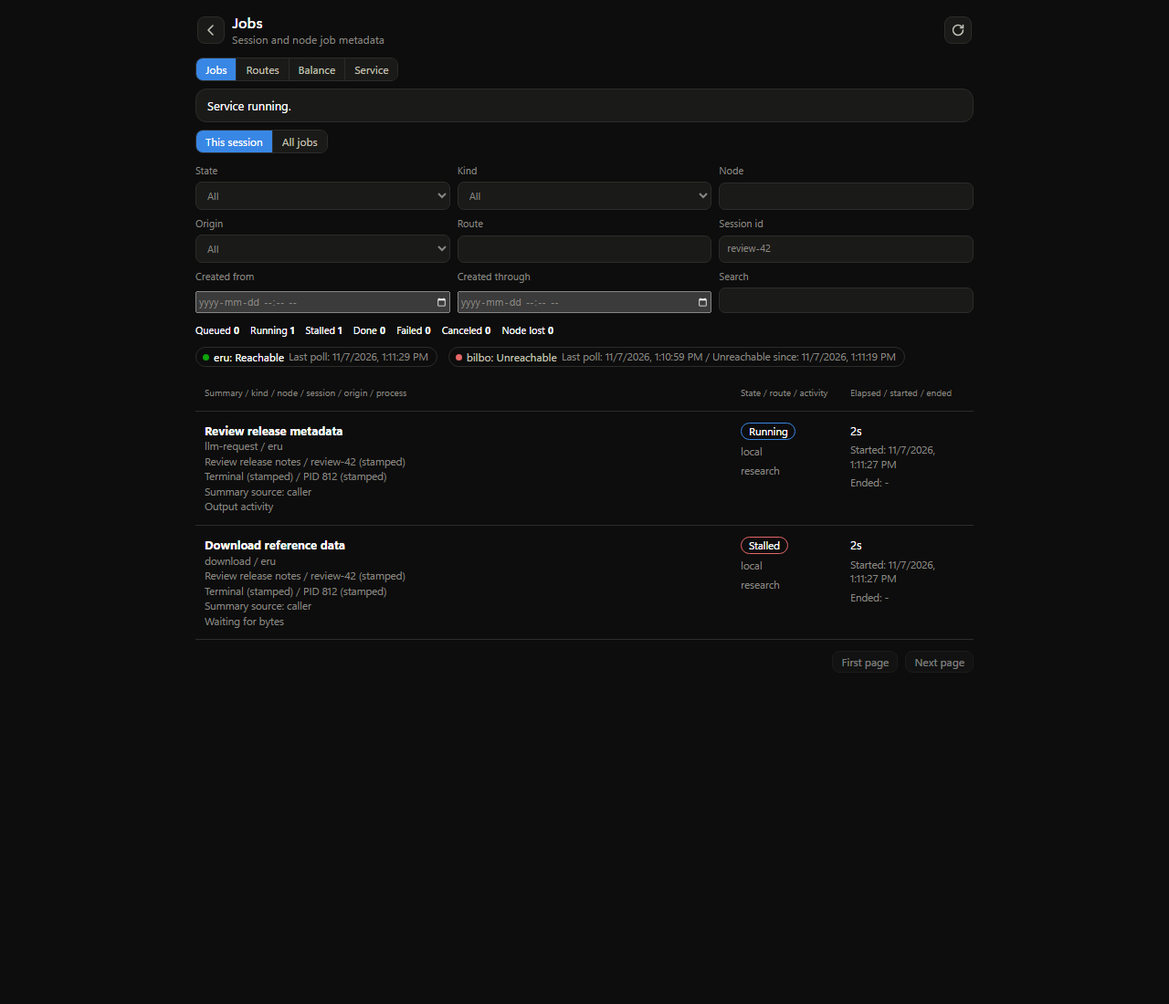
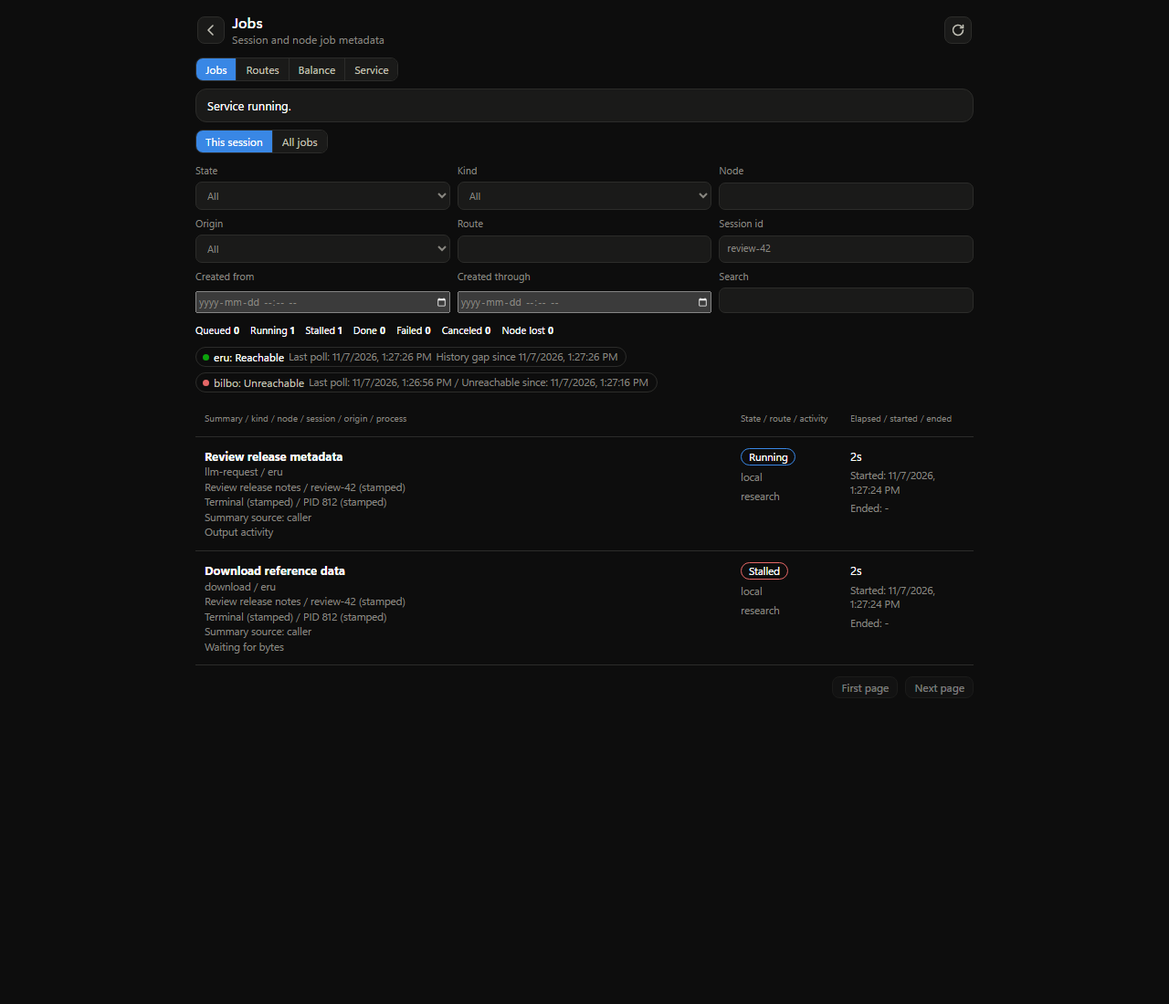
Recover the job poller from an expired Cogitator cursor and show the history gap
A 410 cursor_expired reply now advances the node cursor to the retained floor, records a gap on the node, and keeps the node reachable. The gap shows in nodes output and on both Jobs pages.

diff --git a/packages/augurd/test/job-ledger.test.ts b/packages/augurd/test/job-ledger.test.ts
@@ -33,6 +33,20 @@ function insert(store: Store, id = 'local') {
 }
 
 describe('the durable ledger', () => {
+  it('migrates and persists node gaps and stale job overlays across a restart', () => {
+    const { dir, store, ledger } = fixture();
+    ledger.ingest('eru', page([job()]));
+    store.db.exec('alter table ledger_nodes drop column gap');
+    const migrated = new JobLedger(store.db, { get: id => store.get(id), all: () => store.list({ limit: 1000 }) });
+    expect(migrated.nodes()[0]!.gap).toBeNull();
+    const gap = { at: 1000, from: '1', to: '10', retentionDays: 7 };
+    migrated.recoverGap('eru', gap); migrated.close(); store.close();
+    const reopened = new Store(dir); cleanup.push(() => reopened.close());
+    expect(reopened.ledger.nodes()[0]).toMatchObject({ cursor: '10', gap, unreachableSince: null });
+    reopened.ledger.ingest('eru', page([], 10));
+    expect(reopened.ledger.get('eru:1')?.job.state).toBe('node-lost');
+    expect(reopened.ledger.nodes()[0]!.gap).toEqual(gap);
+  });
   it('migrates node poll times and retains the successful time during an outage', () => {
     const { store, ledger } = fixture();
     ledger.ingest('eru', page([job()]));
@@ -177,6 +191,91 @@ describe('the durable ledger', () => {
 });
 
 describe('node polling', () => {
+  it('retries an expired cursor at the page budget boundary in the same poll', async () => {
+    const { ledger } = fixture();
+    let expired = false;
+    const request = vi.fn(async (url: string | URL | Request) => {
+      const since = Number(new URL(String(url)).searchParams.get('since'));
+      if (since === 9) { expired = true; return new Response(JSON.stringify({ error: { code: 'cursor_expired', oldest: '20' } }), { status: 410 }); }
+      return new Response(JSON.stringify(page([job(String(since + 1))], since, true)));
+    });
+    const poller = new JobPoller(ledger, () => [{ node: 'eru', url: 'http://localhost' }], request as typeof fetch);
+    await poller.poll(); poller.close();
+    expect(expired).toBe(true); expect(request).toHaveBeenCalledTimes(11);
+    expect(ledger.nodes()[0]).toMatchObject({ cursor: '21', unreachableSince: null, gap: { from: '9', to: '20' } });
+    expect(ledger.get('eru:21')?.job.state).toBe('running');
+  });
+  it('bounds repeated advancing expiry responses without marking the node unreachable', async () => {
+    const { ledger } = fixture();
+    const request = vi.fn(async (url: string | URL | Request) => new Response(JSON.stringify({ error: { code: 'cursor_expired', oldest: String(Number(new URL(String(url)).searchParams.get('since')) + 1) } }), { status: 410 }));
+    const poller = new JobPoller(ledger, () => [{ node: 'eru', url: 'http://localhost' }], request as typeof fetch);
+    await poller.poll(); poller.close();
+    expect(request).toHaveBeenCalledTimes(10);
+    expect(ledger.nodes()[0]).toMatchObject({ cursor: '10', unreachableSince: null, gap: { from: '9', to: '10' } });
+  });
+  it('recovers expired history immediately, keeps the gap, and settles only jobs with newer events', async () => {
+    const { store, ledger } = fixture();
+    ledger.ingest('eru', page([job('1', { state: 'stalled' }), job('2'), job('3', { state: 'done', endedAt: 12, durationMs: 10 })]));
+    ledger.unreachable('eru');
+    const request = vi.fn(async (url: string | URL | Request) => {
+      const since = new URL(String(url)).searchParams.get('since');
+      if (since === '3') return new Response(JSON.stringify({ error: { code: 'cursor_expired', oldest: '10', retentionDays: 7, prompt: 'PRIVATE_GAP_PROMPT', answer: 'PRIVATE_GAP_ANSWER' } }), { status: 410 });
+      expect(ledger.nodes()[0]).toMatchObject({ cursor: '10', unreachableSince: null });
+      return new Response(JSON.stringify(page([job('2', { state: 'done', endedAt: 12, durationMs: 10 }), job('4')], 10)));
+    });
+    const poller = new JobPoller(ledger, () => [{ node: 'eru', url: 'http://localhost' }], request as typeof fetch);
+    const before = Date.now(); await poller.poll(); poller.close();
+    expect(request).toHaveBeenCalledTimes(2);
+    const node = ledger.nodes()[0]!;
+    expect(node).toMatchObject({ cursor: '12', unreachableSince: null, gap: { from: '3', to: '10', retentionDays: 7 } });
+    expect(node.gap!.at).toBeGreaterThanOrEqual(before); expect(node.gap!.at).toBeLessThanOrEqual(Date.now());
+    expect(ledger.get('eru:1')?.job.state).toBe('node-lost');
+    expect(ledger.get('eru:2')?.job.state).toBe('done'); expect(ledger.get('eru:3')?.job.state).toBe('done');
+    expect(ledger.get('eru:4')?.job.state).toBe('running');
+    ledger.ingest('eru', page([], 12));
+    expect(ledger.nodes()[0]!.gap).toEqual(node.gap);
+    expect(ledger.changes().changes.filter(c => c.job.id === 'eru:1').at(-1)?.job.state).toBe('node-lost');
+    expect(ledger.checkAlerts()).toEqual([]);
+    expect(JSON.stringify(store.db.prepare('select gap from ledger_nodes').all())).not.toContain('PRIVATE_GAP_');
+    expect(JSON.stringify(ledger.changes())).not.toContain('PRIVATE_GAP_');
+    ledger.ingest('eru', page([job('1')], 12));
+    expect(ledger.get('eru:1')?.job.state).toBe('running');
+  });
+  it('replaces consecutive gaps and compares full unsigned 64-bit cursors', async () => {
+    const { ledger } = fixture();
+    ledger.recoverGap('eru', { at: 1, from: '0', to: '9007199254740992' });
+    const replies = [
+      new Response(JSON.stringify({ error: { code: 'cursor_expired', oldest: '9007199254740993', retentionDays: 7 } }), { status: 410 }),
+      new Response(JSON.stringify({ error: { code: 'cursor_expired', oldest: '18446744073709551615', retentionDays: 'invalid' } }), { status: 410 }),
+      new Response(JSON.stringify({ ...page([]), next: '18446744073709551615' })),
+    ];
+    const request = vi.fn(async () => replies.shift()!);
+    const poller = new JobPoller(ledger, () => [{ node: 'eru', url: 'http://localhost' }], request as typeof fetch);
+    await poller.poll(); poller.close();
+    expect(request).toHaveBeenCalledTimes(3);
+    expect(ledger.nodes()[0]).toMatchObject({ cursor: '18446744073709551615', unreachableSince: null, gap: { from: '9007199254740993', to: '18446744073709551615' } });
+    expect(ledger.nodes()[0]!.gap!.retentionDays).toBeUndefined();
+  });
+  it.each([
+    { error: { code: 'cursor_expired' } },
+    ...['bad', '01', '-1', '18446744073709551616', '2', '1', 3, null].map(oldest => ({ error: { code: 'cursor_expired', oldest } })),
+    { error: { code: 'future_cursor', oldest: '3' } }, {}, null, 'non-JSON',
+  ])('keeps the cursor and marks the node unreachable for an invalid expiry: %j', async body => {
+    const { ledger } = fixture(); ledger.ingest('eru', page([job(), job('2')]));
+    const request = vi.fn(async () => new Response(typeof body === 'string' ? body : JSON.stringify(body), { status: 410 }));
+    const poller = new JobPoller(ledger, () => [{ node: 'eru', url: 'http://localhost' }], request as typeof fetch);
+    await poller.poll(); poller.close();
+    expect(request).toHaveBeenCalledTimes(1);
+    expect(ledger.nodes()[0]).toMatchObject({ cursor: '2', gap: null });
+    expect(ledger.nodes()[0]!.unreachableSince).not.toBeNull();
+  });
+  it.each(['future_cursor', 'invalid_cursor'])('keeps HTTP 400 handling for %s', async code => {
+    const { ledger } = fixture();
+    const poller = new JobPoller(ledger, () => [{ node: 'eru', url: 'http://localhost' }], (async () => new Response(JSON.stringify({ error: { code, oldest: '10' } }), { status: 400 })) as typeof fetch);
+    await poller.poll(); poller.close();
+    expect(ledger.nodes()[0]).toMatchObject({ cursor: '0', gap: null });
+    expect(ledger.nodes()[0]!.unreachableSince).not.toBeNull();
+  });
   it('times out and aborts a node request without advancing its cursor', async () => {
     vi.useFakeTimers();
     const { ledger } = fixture();

diff --git a/packages/augurd/src/job-ledger.ts b/packages/augurd/src/job-ledger.ts
@@ -1,7 +1,7 @@
 import { randomUUID, createHash } from 'node:crypto';
 import type { DatabaseSync } from 'node:sqlite';
-import { JOB_STATES, LEDGER_STATES, ORIGIN_KINDS, ledgerId, ledgerTerminal, summaryLine, validCursor, validLedgerJob, validNodeJobPage } from '@augur/dispatch-protocol';
-import type { JobRecord, LedgerAlert, LedgerAlertSettings, LedgerChain, LedgerChange, LedgerJob, LedgerMetadata, LedgerNode, LedgerPage, LedgerQuery, LedgerState, LedgerWatchPage, NodeJobPage } from '@augur/dispatch-protocol';
+import { JOB_STATES, LEDGER_STATES, ORIGIN_KINDS, ledgerId, ledgerTerminal, summaryLine, validCursor, validLedgerGap, validLedgerJob, validNodeJobPage } from '@augur/dispatch-protocol';
+import type { JobRecord, LedgerAlert, LedgerAlertSettings, LedgerChain, LedgerChange, LedgerGap, LedgerJob, LedgerMetadata, LedgerNode, LedgerPage, LedgerQuery, LedgerState, LedgerWatchPage, NodeJobPage } from '@augur/dispatch-protocol';
 
 export interface AlertSink { emit(event: LedgerAlert): void | Promise<void> }
 export class NoopAlertSink implements AlertSink { emit(_event: LedgerAlert): void {} }
@@ -37,6 +37,7 @@ export class JobLedger {
       create trigger if not exists ledger_job_insert after insert on jobs begin insert or ignore into ledger_dirty(id) values(new.id); end;
       create trigger if not exists ledger_job_update after update on jobs begin insert or ignore into ledger_dirty(id) values(new.id); end;`);
     if (!(db.prepare('pragma table_info(ledger_nodes)').all() as Array<{ name: string }>).some(column => column.name === 'last_poll_at')) db.exec('alter table ledger_nodes add column last_poll_at integer');
+    if (!(db.prepare('pragma table_info(ledger_nodes)').all() as Array<{ name: string }>).some(column => column.name === 'gap')) db.exec('alter table ledger_nodes add column gap text');
     db.prepare('insert or ignore into ledger_identity(id,node) values(1,?)').run(`augur-${randomUUID()}`);
     this.node = (db.prepare('select node from ledger_identity where id=1').get() as { node: string }).node;
     db.exec('insert or ignore into ledger_dirty(id) select id from jobs');
@@ -113,7 +114,9 @@ export class JobLedger {
   private remoteJob(job: LedgerJob): LedgerJob {
     const node = this.nodes().find(n => n.node === job.node);
     const line = this.remoteLines.get(job.id), row = line ? { ...job, activityLine: line } : job;
-    return node?.unreachableSince !== null && node?.unreachableSince !== undefined && !ledgerTerminal(job.state) ? { ...row, state: 'node-lost' } : row;
+    const version = node?.gap ? (this.db.prepare('select version from ledger_remote where id=?').get(job.id) as { version: string }).version : null;
+    const stale = node?.gap && version !== null && BigInt(version) <= BigInt(node.gap.to);
+    return ((node?.unreachableSince !== null && node?.unreachableSince !== undefined) || stale) && !ledgerTerminal(job.state) ? { ...row, state: 'node-lost' } : row;
   }
 
   private all(): LedgerJob[] {
@@ -195,9 +198,21 @@ export class JobLedger {
   }
 
   nodes(): LedgerNode[] {
-    return (this.db.prepare('select * from ledger_nodes order by node').all() as Array<{ node: string; cursor: string; unreachable_since: number | null; last_seen_at: number | null; last_poll_at: number | null }>).map(n => ({ node: n.node, cursor: n.cursor, unreachableSince: n.unreachable_since, lastSeenAt: n.last_seen_at, lastPollAt: n.last_poll_at }));
+    return (this.db.prepare('select * from ledger_nodes order by node').all() as Array<{ node: string; cursor: string; unreachable_since: number | null; last_seen_at: number | null; last_poll_at: number | null; gap: string | null }>).map(n => ({ node: n.node, cursor: n.cursor, unreachableSince: n.unreachable_since, lastSeenAt: n.last_seen_at, lastPollAt: n.last_poll_at, gap: n.gap === null ? null : JSON.parse(n.gap) as LedgerGap }));
   }
   cursor(node: string): string { return this.nodes().find(n => n.node === node)?.cursor ?? '0'; }
+
+  recoverGap(node: string, gap: LedgerGap): void {
+    if (!validLedgerGap(gap) || gap.from !== this.cursor(node) || node === this.node) throw new Error('The ledger gap is invalid.');
+    this.transaction(() => {
+      this.db.prepare('insert into ledger_nodes(node,cursor,last_seen_at,last_poll_at,gap) values(?,?,?,?,?) on conflict(node) do update set cursor=excluded.cursor,unreachable_since=null,last_seen_at=excluded.last_seen_at,last_poll_at=excluded.last_poll_at,gap=excluded.gap').run(node, gap.to, gap.at, gap.at, JSON.stringify(gap));
+      for (const { body } of this.db.prepare('select body from ledger_remote where node=?').all(node) as Array<{ body: string }>) {
+        const job = JSON.parse(body) as LedgerJob;
+        this.remoteLines.delete(job.id);
+        this.append(this.remoteJob(job));
+      }
+    });
+  }
 
   unreachable(node: string): void {
     this.transaction(() => {
@@ -224,7 +239,7 @@ export class JobLedger {
         this.db.prepare('insert into ledger_remote(id,node,version,body) values(?,?,?,?) on conflict(id) do update set version=excluded.version,body=excluded.body').run(event.job.id, node, event.seq, payload(event.job));
         this.append(event.job);
       }
-      for (const { body } of this.db.prepare('select body from ledger_remote where node=?').all(node) as Array<{ body: string }>) this.append(JSON.parse(body) as LedgerJob);
+      for (const { body } of this.db.prepare('select body from ledger_remote where node=?').all(node) as Array<{ body: string }>) this.append(this.remoteJob(JSON.parse(body) as LedgerJob));
     });
     for (const event of page.events) if (BigInt(event.seq) > BigInt(cursor)) {
       if (event.job.activityLine && !ledgerTerminal(event.job.state)) this.remoteLines.set(event.job.id, event.job.activityLine);

diff --git a/apps/ui/src/views/jobs.ts b/apps/ui/src/views/jobs.ts
@@ -52,7 +52,7 @@ export function renderJobs(m: JobsModel): string {
     ${ledger.selected ? '' : dispatchTabs('jobs')}<div class="card rbanner ${m.service?.running ? 'ok' : ''}"><span class="grow">${esc(status)} ${esc(m.serviceNote)}</span>${m.service?.running === false ? '<button class="btn small" data-action="service-start">Start</button>' : ''}</div>
     <div class="seg" role="group" aria-label="${T.scope}">${(['session', 'all'] as const).map(scope => `<button class="${ledger.scope === scope ? 'on' : ''}" aria-pressed="${ledger.scope === scope}" data-action="jobs-scope" data-value="${scope}">${scope === 'session' ? T.session : T.all}</button>`).join('')}</div>${filters(ledger)}
     <div class="ledger-counts" aria-label="Counts by state">${LEDGER_STATES.map(state => `<span>${LEDGER_STATE_LABELS[state]} <b>${ledger.counts[state]}</b></span>`).join('')}</div>
-    <div class="ledger-nodes" aria-label="Node health">${ledger.nodes.map(node => `<span class="lchip ${node.unreachableSince === null ? '' : 'down'}"><i></i>${esc(node.node)}: ${node.unreachableSince === null ? T.reachable : T.unreachable}<span class="jsub">Last poll: ${(node.lastPollAt ?? node.lastSeenAt) === null ? T.never : ledgerTime(node.lastPollAt ?? node.lastSeenAt)}${node.unreachableSince === null ? '' : ` / Unreachable since: ${ledgerTime(node.unreachableSince)}`}</span></span>`).join('')}</div>
+    <div class="ledger-nodes" aria-label="Node health">${ledger.nodes.map(node => `<span class="lchip ${node.unreachableSince === null ? '' : 'down'}"><i></i>${esc(node.node)}: ${node.unreachableSince === null ? T.reachable : T.unreachable}<span class="jsub">Last poll: ${(node.lastPollAt ?? node.lastSeenAt) === null ? T.never : ledgerTime(node.lastPollAt ?? node.lastSeenAt)}${node.unreachableSince === null ? '' : ` / Unreachable since: ${ledgerTime(node.unreachableSince)}`}</span>${node.gap ? `<span class="jsub">History gap since ${ledgerTime(node.gap.at)}</span>` : ''}</span>`).join('')}</div>
     ${ledger.error ? `<div class="card rbanner bad" role="alert">${esc(ledger.error)}</div>` : ''}${ledger.loading && ledger.jobs !== null ? '<p class="help" role="status">Refreshing jobs.</p>' : ''}
     <div class="rules ${ledger.selected ? 'has-sel' : ''}"><section class="rlist jlist" aria-label="Job list"><div class="ledger-columns"><span>Summary / kind / node / session / origin / process</span><span>State / route / activity</span><span>Elapsed / started / ended</span></div>${list}<div class="actions"><button class="btn small" data-action="jobs-first" ${ledger.page ? '' : 'disabled'}>${T.first}</button><button class="btn small" data-action="jobs-next" ${ledger.next ? '' : 'disabled'}>${T.next}</button></div></section><div class="rdetail">${detail(m)}</div></div></div>`;
 }

diff --git a/packages/augurd/src/job-poller.ts b/packages/augurd/src/job-poller.ts
@@ -1,4 +1,4 @@
-import { validNode, validNodeJobPage } from '@augur/dispatch-protocol';
+import { validCursor, validNode, validNodeJobPage } from '@augur/dispatch-protocol';
 import { keyMayGoTo } from '@augur/core';
 import type { JobLedger } from './job-ledger.js';
 
@@ -30,17 +30,28 @@ export class JobPoller {
       if (!keyMayGoTo(endpoint.url) || base.username || base.password) throw new Error();
       const key = await this.authorization(endpoint);
       // Bounded batches let a large backlog catch up without monopolizing the service.
-      for (let batch = 0; batch < 10 && !this.closed; batch++) {
+      for (let batch = 0, gaps = 0; batch < 10 && gaps < 10 && !this.closed;) {
         const since = this.ledger.cursor(endpoint.node), url = new URL('/api/v1/jobs', base);
         url.searchParams.set('since', since);
         const response = await this.request(url, { redirect: 'error', signal: controller.signal, headers: { Accept: 'application/json', ...(key ? { Authorization: `Bearer ${key}` } : {}) } });
-        if (!response.ok) throw new Error();
+        if (!response.ok && response.status !== 410) throw new Error();
         const text = await response.text();
         if (text.length > 4 * 1024 * 1024) throw new Error();
         const page: unknown = JSON.parse(text);
         if (this.closed) return;
+        if (response.status === 410) {
+          const error = page && typeof page === 'object' && 'error' in page ? page.error : null;
+          if (!error || typeof error !== 'object' || !('code' in error) || error.code !== 'cursor_expired'
+            || !('oldest' in error) || !validCursor(error.oldest) || BigInt(error.oldest) <= BigInt(since)) throw new Error();
+          const retentionDays = 'retentionDays' in error ? error.retentionDays : undefined;
+          this.ledger.recoverGap(endpoint.node, { at: Date.now(), from: since, to: error.oldest,
+            ...(Number.isSafeInteger(retentionDays) && Number(retentionDays) >= 0 ? { retentionDays: Number(retentionDays) } : {}) });
+          gaps++;
+          continue;
+        }
         if (!validNodeJobPage(page) || (page.more && page.next === since)) throw new Error();
         this.ledger.ingest(endpoint.node, page);
+        batch++;
         if (!page.more) return;
       }
     } catch { if (!this.closed) this.ledger.unreachable(endpoint.node); }

diff --git a/packages/dispatch-protocol/test/job-ledger.test.ts b/packages/dispatch-protocol/test/job-ledger.test.ts
@@ -1,11 +1,17 @@
 import { describe, expect, it } from 'vitest';
 import { ledgerPage, ledgerQuery, ledgerTime } from '../src/ledger-query.js';
-import { checkBalanceSetting, ledgerId, resolveBalance, stampFromEnv, stampFromHeaders, stampHeaders, summaryLine, validCursor, validLedgerJob, validNodeJobPage, validStamp } from '../src/index.js';
+import { checkBalanceSetting, ledgerId, resolveBalance, stampFromEnv, stampFromHeaders, stampHeaders, summaryLine, validCursor, validLedgerGap, validLedgerJob, validNodeJobPage, validStamp } from '../src/index.js';
 import type { LedgerJob } from '../src/index.js';
 
 const job = (): LedgerJob => ({ id: 'eru:1', node: 'eru', localId: '1', kind: 'llm-request', state: 'running', stamp: {}, attribution: { session: 'unknown', origin: 'unknown', process: 'unknown', host: 'unknown' }, summary: '', summarySource: 'none', route: null, model: 'summarize', activity: 'summarize', createdAt: 1, startedAt: 2, endedAt: null, durationMs: null, updatedAt: 2, lastActivityAt: 2, parentId: null, retryOf: null, retriedAs: null, usage: null, exitReason: null, compacted: false });
 
 describe('the job ledger contract', () => {
+  it('accepts only advancing metadata gaps with valid times and optional retention days', () => {
+    const gap = { at: 1000, from: '1', to: '10' };
+    expect(validLedgerGap(gap)).toBe(true); expect(validLedgerGap({ ...gap, retentionDays: 7 })).toBe(true);
+    for (const fields of [{ at: -1 }, { at: NaN }, { from: '01' }, { to: '1' }, { to: '0' }, { to: '18446744073709551616' }, { retentionDays: -1 }, { retentionDays: 1.5 }, { retentionDays: '7' }, { prompt: 'private' }, { answer: 'private' }]) expect(validLedgerGap({ ...gap, ...fields })).toBe(false);
+    for (const value of [null, [], {}]) expect(validLedgerGap(value)).toBe(false);
+  });
   it('qualifies identifiers with a durable node id', () => {
     expect(ledgerId('eru', '1')).not.toBe(ledgerId('bilbo', '1'));
     for (const node of ['', 'a:b', '../a']) expect(() => ledgerId(node, '1')).toThrow();

diff --git a/apps/ui/test/jobs.browser.ts b/apps/ui/test/jobs.browser.ts
@@ -21,7 +21,7 @@ export async function prepare(theme = 'light'): Promise<void> {
     if (offline) throw new Error('The ledger connection is offline.');
     if (method === 'ledger_list') { queries.push(params); return { jobs: jobs.filter(job => matches(job, params)), next: null }; }
     if (method === 'ledger_counts') return Object.fromEntries(LEDGER_STATES.map(state => [state, jobs.filter(job => job.state === state && matches(job, params)).length]));
-    if (method === 'ledger_nodes') return [{ node: 'eru', cursor: '2', lastSeenAt: now, unreachableSince: null }, { node: 'bilbo', cursor: '3', lastSeenAt: now - 30000, unreachableSince: now - 10000 }];
+    if (method === 'ledger_nodes') return [{ node: 'eru', cursor: '2', lastSeenAt: now, unreachableSince: null, gap: { at: now, from: '0', to: '1', retentionDays: 7 } }, { node: 'bilbo', cursor: '3', lastSeenAt: now - 30000, unreachableSince: now - 10000 }];
     if (method === 'ledger_changes') return { changes: [], cursor: '3', more: false };
     if (method === 'ledger_get') return { job: jobs.find(job => job.id === params.id), parent: null, children: [], retries: [] };
     return null;
@@ -38,6 +38,7 @@ export async function exercise(): Promise<string> {
   await prepare();
   const { app, root, queries, offline } = (window as any).ledgerFixture;
   const q = (selector: string): HTMLElement => { const element = root.querySelector(selector); if (!element) throw new Error('Missing ' + selector); return element; };
+  check(q('.ledger-nodes').textContent!.includes('History gap since '), 'The node history gap was missing.');
   check(root.querySelectorAll('.ledger-row').length === 2, 'The session list included another session.');
   q('[data-action="jobs-scope"][data-value="all"]').click(); await settle();
   check(root.querySelectorAll('.ledger-row').length === 3, 'All jobs did not include the archive.');

diff --git a/packages/dispatch-protocol/src/job-ledger.ts b/packages/dispatch-protocol/src/job-ledger.ts
@@ -87,7 +87,8 @@ export interface LedgerQuery {
 }
 export interface LedgerPage { jobs: LedgerJob[]; next: string | null }
 export interface LedgerChain { job: LedgerJob; parent: LedgerJob | null; children: LedgerJob[]; retries: LedgerJob[] }
-export interface LedgerNode { node: string; cursor: string; unreachableSince: number | null; lastSeenAt: number | null; lastPollAt?: number | null }
+export interface LedgerGap { at: number; from: string; to: string; retentionDays?: number }
+export interface LedgerNode { node: string; cursor: string; unreachableSince: number | null; lastSeenAt: number | null; lastPollAt?: number | null; gap?: LedgerGap | null }
 export interface LedgerChange { cursor: string; at: number; job: LedgerJob }
 export interface LedgerWatchPage { changes: LedgerChange[]; cursor: string; more: boolean }
 export interface LedgerWatchEvent { event: 'ledger_change'; change: LedgerChange }
@@ -151,6 +152,12 @@ const nullableLine = (v: unknown): boolean => v === null || line(v);
 const time = (v: unknown): boolean => v === null || finite(v);
 export const validCursor = (v: unknown): v is string => typeof v === 'string' && /^(0|[1-9][0-9]{0,19})$/.test(v) && BigInt(v) <= 18446744073709551615n;
 export const validNode = (v: unknown): v is string => typeof v === 'string' && /^[A-Za-z0-9._-]{1,128}$/.test(v);
+
+export function validLedgerGap(v: unknown): v is LedgerGap {
+  return object(v) && keys(v, ['at', 'from', 'to', 'retentionDays']) && finite(v.at)
+    && validCursor(v.from) && validCursor(v.to) && BigInt(v.to) > BigInt(v.from)
+    && (v.retentionDays === undefined || (Number.isSafeInteger(v.retentionDays) && Number(v.retentionDays) >= 0));
+}
 
 export function ledgerId(node: string, localId: string): string {
   if (!validNode(node) || !/^[A-Za-z0-9._-]{1,128}$/.test(localId)) throw new Error('The ledger identifier is invalid.');

diff --git a/packages/mcp/test/mcp.test.ts b/packages/mcp/test/mcp.test.ts
@@ -296,11 +296,13 @@ describe('ledger tools', () => {
     expect((await tools.jobs({ since: '6', page: 'x' })).isError).toBe(true);
   });
   it('reads nodes, alert times, and local history without exposing event detail', async () => {
-    const node = { node: 'eru', cursor: '8', lastSeenAt: 1000, unreachableSince: 2000 };
+    const node = { node: 'eru', cursor: '8', lastSeenAt: 1000, unreachableSince: 2000, gap: { at: 3000, from: '1', to: '8', retentionDays: 7 } };
     const recent = { at: Date.parse('2026-11-07'), type: 'job.failed', jobId: 'node:abc', summary: 'Read notes' };
     const tools = createTools(deps({ ledger_nodes: [node], ledger_alerts: [{ ...recent, at: 0 }, recent], ledger_get: { job: ledgerJob({ kind: 'augur-job' }), parent: null, children: [], retries: [] }, events: [{ at: 0, kind: 'queued', detail: 'private-sentinel' }] }));
     expect((await tools.nodes()).data).toEqual({ nodes: [node] });
     expect((await tools.nodes()).text).toContain('unreachable since 1970');
+    expect((await tools.nodes()).text).toContain('History gap since 1970');
+    expect((await createTools(deps({ ledger_nodes: [{ ...node, gap: null }] })).nodes()).text).not.toContain('History gap since');
     expect((await tools.alerts({ since: '2026-11-01' })).data).toEqual({ alerts: [recent] });
     const r = await tools.job({ id: 'abc' });
     expect(r.data?.history).toEqual([{ at: 0, kind: 'queued' }]); expect(JSON.stringify(r)).not.toContain('private-sentinel');

diff --git a/apps/tui/src/screens/dispatch.ts b/apps/tui/src/screens/dispatch.ts
@@ -247,7 +247,10 @@ export class DispatchPage implements Page {
       } });
     }
     rows.push({ kind: 'note', text: LEDGER_STATES.map(state => LEDGER_STATE_LABELS[state] + ': ' + jobs.counts[state]).join(' / ') });
-    for (const node of jobs.nodes) rows.push({ kind: 'note', text: node.node + ': ' + (node.unreachableSince === null ? T.reachable : T.unreachable + ' since ' + ledgerTime(node.unreachableSince)) + ' / Last poll: ' + ledgerTime(node.lastPollAt ?? node.lastSeenAt), style: node.unreachableSince === null ? 'muted' : 'warn' });
+    for (const node of jobs.nodes) {
+      if (node.gap) rows.push({ kind: 'note', text: node.node + ': History gap since ' + ledgerTime(node.gap.at), style: 'warn' });
+      rows.push({ kind: 'note', text: node.node + ': ' + (node.unreachableSince === null ? T.reachable : T.unreachable + ' since ' + ledgerTime(node.unreachableSince)) + ' / Last poll: ' + ledgerTime(node.lastPollAt ?? node.lastSeenAt), style: node.unreachableSince === null ? 'muted' : 'warn' });
+    }
     if (jobs.error) rows.push({ kind: 'note', text: jobs.error, style: 'crit' });
     if (jobs.jobs === null) rows.push({ kind: 'note', text: T.loading });
     else if (!jobs.jobs.length) rows.push({ kind: 'note', text: T.empty });

diff --git a/apps/ui/test/jobs.test.ts b/apps/ui/test/jobs.test.ts
@@ -15,11 +15,14 @@ describe('the ledger Jobs page', () => {
 
   it('renders the default session scope, filters, zero counts, and node health', () => {
     const m = model([job({ state: 'stalled' })]); m.ledger.counts.stalled = 1;
-    m.ledger.nodes = [{ node: 'eru', cursor: '1', lastSeenAt: 1000, unreachableSince: 2000 }];
+    m.ledger.nodes = [{ node: 'eru', cursor: '1', lastSeenAt: 1000, unreachableSince: 2000, gap: { at: 3000, from: '0', to: '1', retentionDays: 7 } }];
     const html = renderJobs(m);
     expect(html).toContain('aria-pressed="true" data-action="jobs-scope" data-value="session"');
     for (const filter of ['state', 'kind', 'node', 'origin', 'route', 'session', 'from', 'to', 'text']) expect(html).toContain('data-ledger-filter="' + filter + '"');
     expect(html).toContain('Stalled <b>1</b>'); expect(html).toContain('Failed <b>0</b>'); expect(html).toContain('Unreachable since:'); expect(html).toContain('Last poll:');
+    expect(html).toContain('History gap since ' + new Date(3000).toLocaleString());
+    m.ledger.nodes[0]!.gap = null;
+    expect(renderJobs(m)).not.toContain('History gap since');
   });
 
   it('renders loading, empty, missing detail, and paging states', () => {

diff --git a/packages/mcp/src/tools.ts b/packages/mcp/src/tools.ts
@@ -247,7 +247,7 @@ export function createTools(d: McpDeps) {
   }
 
   async function nodes(): Promise<ToolResult> {
-    return guarded(() => d.call('ledger_nodes', undefined, d.opts), nodes => ({ text: nodes.map(n => `${n.node}  last poll ${ledgerDate(n.lastSeenAt)}  cursor ${n.cursor}  ${n.unreachableSince !== null ? 'unreachable' : n.lastSeenAt === null ? 'unknown' : 'reachable'}  unreachable since ${ledgerDate(n.unreachableSince)}`).join('\n') || 'No registered nodes.', data: { nodes } }));
+    return guarded(() => d.call('ledger_nodes', undefined, d.opts), nodes => ({ text: nodes.map(n => `${n.node}  last poll ${ledgerDate(n.lastSeenAt)}  cursor ${n.cursor}  ${n.unreachableSince !== null ? 'unreachable' : n.lastSeenAt === null ? 'unknown' : 'reachable'}  unreachable since ${ledgerDate(n.unreachableSince)}${n.gap ? `\n  History gap since ${ledgerDate(n.gap.at)}` : ''}`).join('\n') || 'No registered nodes.', data: { nodes } }));
   }
 
   async function alerts(a: { since?: string }): Promise<ToolResult> {

diff --git a/packages/dispatch-cli/src/cli.ts b/packages/dispatch-cli/src/cli.ts
@@ -209,7 +209,7 @@ export async function main(argv: string[], io: Io): Promise<number> {
       }
       case 'nodes': {
         const nodes = await call('ledger_nodes', undefined, opts);
-        say(nodes.map(n => `${n.node}  last poll ${ledgerDate(n.lastSeenAt)}  cursor ${n.cursor}  ${n.unreachableSince !== null ? 'unreachable' : n.lastSeenAt === null ? 'unknown' : 'reachable'}  unreachable since ${ledgerDate(n.unreachableSince)}`).join('\n') || 'No registered nodes.', nodes); return 0;
+        say(nodes.map(n => `${n.node}  last poll ${ledgerDate(n.lastSeenAt)}  cursor ${n.cursor}  ${n.unreachableSince !== null ? 'unreachable' : n.lastSeenAt === null ? 'unknown' : 'reachable'}  unreachable since ${ledgerDate(n.unreachableSince)}${n.gap ? `\n  History gap since ${ledgerDate(n.gap.at)}` : ''}`).join('\n') || 'No registered nodes.', nodes); return 0;
       }
       case 'conversations': return await conversationsCmd(p, io, opts, say, opt, json);
       case 'job': {
